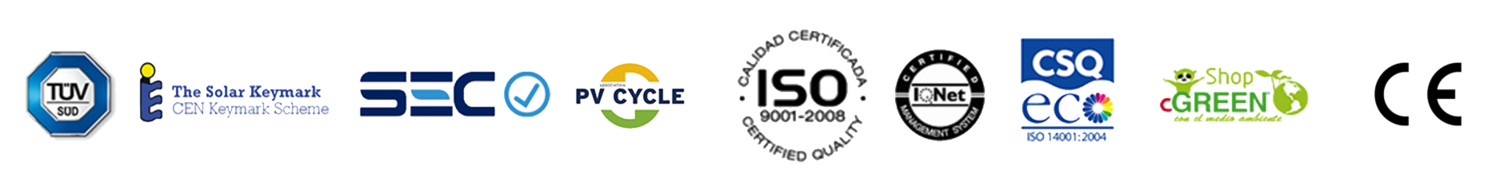
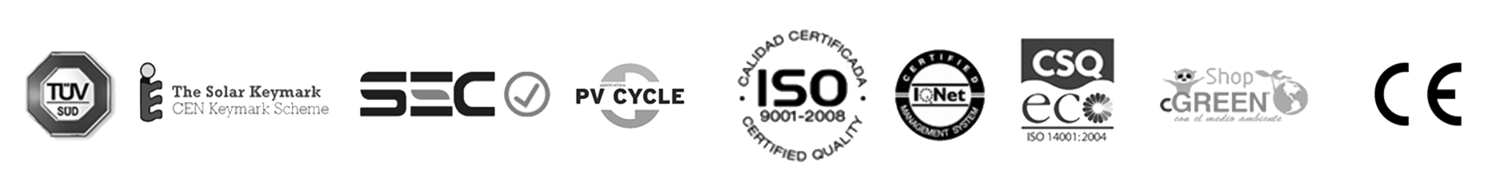
Certificacion al fondo en gris y mas chica

Changed region(s): [[0.0, 0.2784, 0.46, 0.7113], [0.6747, 0.1856, 0.8893, 0.7423], [0.3987, 0.3093, 0.46, 0.433]]

diff --git a/resources/scss/app.scss b/resources/scss/app.scss
@@ -261,6 +261,14 @@ footer{
 			}
 		}
 	}
+	.cert-img{
+		@extend .d-block, .img-fluid, .mx-auto;
+		max-width: 500px;
+		@include media-breakpoint-down(sm) {
+			padding-left: 10px;
+			padding-right: 10px;
+		}
+	}
 }
 .flags{
 	@extend .mx-auto;

diff --git a/themes/vincent/footer.php b/themes/vincent/footer.php
@@ -1,10 +1,5 @@
 
 <footer class="container-fluid">
-		<section>
-			<div class="col-sm-12 col-md-8 offset-md-2">
-				<img class="img-fluid" src="<?php echo get_template_directory_uri() ?>/image/snippets/cert.png">
-			</div>
-		</section>
 		<div class="row">
 			<p class="d-block fancy-font text-center px-3"> Confianza y calidad europea a su alcance </p>
 		</div>
@@ -57,8 +52,13 @@
 
 			</div>
 		</div>
+		<section>
+			<div class="w-100">
+				<img class="cert-img" src="<?php echo get_template_directory_uri() ?>/image/snippets/cert.png">
+			</div>
+		</section>
 		<div class="row">
-			<p class="d-block bottom-text text-center"> 2018 © Vincent Solar, Renewable Energy | Todos los derechos	</p>	
+			<p class="d-block bottom-text text-center"> 2018 © Vincent Solar | Todos los derechos reserva	</p>	
 		</div>
 </footer>
 <div class="bottom-dock">
@@ -80,8 +80,8 @@
 		<img src="<?php echo get_template_directory_uri() ?>/image/snippets/it_line.png">
 	</div>
 	<div class="dock-button d-none d-xs-none d-sm-none d-md-block">
-		<a data-toggle="collapse" href="#collapsePanel" role="button" aria-expanded="false" aria-controls="collapsePanel">
-			¿Interesado en Ahorrar&nbsp;<i class="fas fa-dollar-sign"></i>?
+		<a data-toggle="collapse" href="mailto:info@vincentsolar.com" role="button" aria-expanded="false" aria-controls="collapsePanel">
+			Contactenos&nbsp;<i class="fas fa-envelope"></i>?
 		</a>
 		<img src="<?php echo get_template_directory_uri() ?>/image/snippets/it_line.png">
 	</div>
